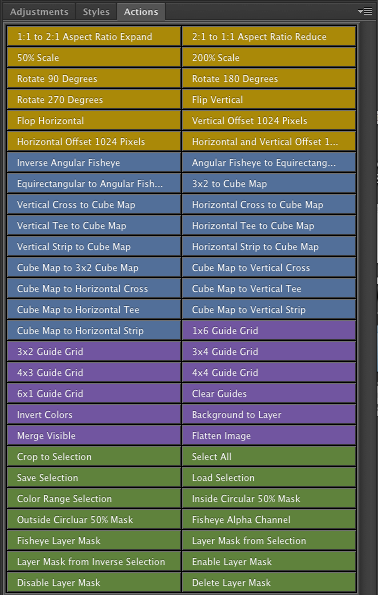
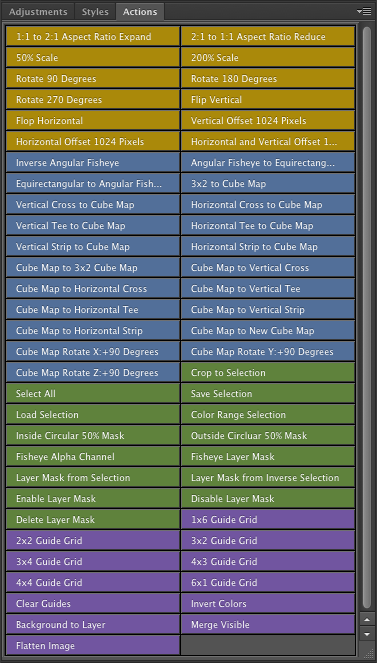
Version 0.4 Update

diff --git a/readme.md b/readme.md
@@ -1,5 +1,6 @@
 #Domemaster Photoshop Actions Pack
-Version 0.3 - Nov 28, 2012 - Build 5
+**Version 0.4** - Released Nov 30, 2012
+
 by Andrew Hazelden
 
 
@@ -49,7 +50,10 @@ The actions provide tools for converting images from several common panoramic fo
 	> Cube Map to Horizontal Tee
 	> Cube Map to Vertical Strip
 	> Cube Map to Horizontal Strip
-
+	> Cube Map to New Cube Map
+	> Cube Map Rotate X:+90 Degrees
+	> Cube Map Rotate Y:+90 Degrees
+	> Cube Map Rotate Z:+90 Degrees
 	
 ##Masking and Selection:
 	> Crop to Selection
@@ -68,8 +72,8 @@ The actions provide tools for converting images from several common panoramic fo
 	> Delete Layer Mask
 	 
 ##General Utilities:
-
 	> 1x6 Guide Grid
+	> 2x2 Guide Grid
 	> 3x2 Guide Grid
 	> 3x4 Guide Grid
 	> 4x3 Guide Grid
@@ -255,6 +259,9 @@ The converted cubic map faces are named:
 </table>
 
 
+![3x2 Cube Map to Cube Map Example 1](https://raw.github.com/AndrewHazelden/Domemaster-Photoshop-Actions-Pack/master/Screenshots/Actions-Previews/3x2-cubemap-action.jpg)
+
+
 ###Vertical Cross to Cube Map
 This converts a vertical cross format panorama into the cubic map panorama format.
 
@@ -281,6 +288,10 @@ The converted cubic map faces are named:
 	</tr>
 </table>
 
+
+![Vertical Cross to Cube Map Example](https://raw.github.com/AndrewHazelden/Domemaster-Photoshop-Actions-Pack/master/Screenshots/Actions-Previews/vertical-cross-cubemap-action.jpg)
+
+
 ###Horizontal Cross to Cube Map
 This converts a horizontal cross format panorama into the cubic map panorama format.
 
@@ -306,6 +317,8 @@ The converted cubic map faces are named:
 		<td>bottom</td>
 	</tr>
 </table>
+
+![Horizontal Cross to Cube Map Example](https://raw.github.com/AndrewHazelden/Domemaster-Photoshop-Actions-Pack/master/Screenshots/Actions-Previews/horizontal-cross-cubemap-action.jpg)
 
 ###Vertical Tee to Cube Map
 This converts a vertical tee format panorama into the cubic map panorama format.
@@ -334,6 +347,7 @@ The converted cubic map faces are named:
 	</tr>
 </table>
 
+![Vertical Tee to Cube Map Example](https://raw.github.com/AndrewHazelden/Domemaster-Photoshop-Actions-Pack/master/Screenshots/Actions-Previews/vertical-tee-cubemap-action.jpg)
 
 ###Horizontal Tee to Cube Map
 This converts a horizontal tee format panorama into the cubic map panorama format.
@@ -362,7 +376,7 @@ The converted cubic map faces are named:
 	</tr>
 </table>
 
-
+![Horizontal Tee to Cube Map Example](https://raw.github.com/AndrewHazelden/Domemaster-Photoshop-Actions-Pack/master/Screenshots/Actions-Previews/horizontal-tee-cubemap-action.jpg)
 
 ###Vertical Strip to Cube Map
 This converts a vertical strip format panorama into the cubic map panorama format.
@@ -391,6 +405,8 @@ The converted cubic map faces are named:
 	</tr>
 </table>
 
+![Vertical Strip to Cube Map Example](https://raw.github.com/AndrewHazelden/Domemaster-Photoshop-Actions-Pack/master/Screenshots/Actions-Previews/vertical-strip-cubemap-action.jpg)
+
 ###Horizontal Strip to Cube Map
 This converts a horizontal strip format panorama into the cubic map panorama format.
 
@@ -418,6 +434,15 @@ The converted cubic map faces are named:
 	</tr>
 </table>
 
+![Horizontal Strip to Cube Map Example](https://raw.github.com/AndrewHazelden/Domemaster-Photoshop-Actions-Pack/master/Screenshots/Actions-Previews/horizontal-strip-cubemap-action.jpg)
+
+
+###Cube Map to 3x2 Cube Map
+
+This converts a cube map format image into the 3x2 panorama format.
+
+![Cube Map to 3x2 Cube Map Example](https://raw.github.com/AndrewHazelden/Domemaster-Photoshop-Actions-Pack/master/Screenshots/Actions-Previews/cubemap-3x2-cube-action.jpg)
+
 
 ###Cube Map to Vertical Cross
 This converts a cube map format image into the vertical cross panorama format.
@@ -426,18 +451,20 @@ The converted vertical cross faces are located in the format:
 
 <table>
 	<tr>
-		<td>blank</td> <td>top</td> <td>blank</td> <td>blank</td>
+		<td>blank</td> <td>top</td> <td>blank</td>
 	</tr>
 	<tr>
-		<td>left</td> <td>front</td> <td>right</td> <td>blank</td>
+		<td>left</td> <td>front</td> <td>right</td>
 	</tr>
 	<tr>
-		<td>blank</td> <td>bottom</td> <td>blank</td> <td>blank</td>
+		<td>blank</td> <td>bottom</td> <td>blank</td>
 	</tr>
 	<tr>
-		<td>blank</td> <td>back (rotated 180&deg;)</td> <td>blank</td> <td>blank</td>
+		<td>blank</td> <td>back (rotated 180&deg;)</td> <td>blank</td>
 	</tr>
 </table>
+
+![Cube Map to Vertical Cross Example](https://raw.github.com/AndrewHazelden/Domemaster-Photoshop-Actions-Pack/master/Screenshots/Actions-Previews/cubemap-vertical-cross-action.jpg)
 
 
 ###Cube Map to Horizontal Cross
@@ -457,6 +484,7 @@ The converted horizontal cross faces are located in the format:
 	</tr>
 </table>
 
+![Cube Map to Horizontal Cross Example](https://raw.github.com/AndrewHazelden/Domemaster-Photoshop-Actions-Pack/master/Screenshots/Actions-Previews/cubemap-horizontal-cross-action.jpg)
 
 ###Cube Map to Vertical Tee
 This converts a cube map format image into the vertical tee panorama format.
@@ -478,6 +506,7 @@ The converted vertical tee faces are located in the format:
 	</tr>
 </table>
 
+![Cube Map to Vertical Tee Example](https://raw.github.com/AndrewHazelden/Domemaster-Photoshop-Actions-Pack/master/Screenshots/Actions-Previews/cubemap-vertical-tee-action.jpg)
 
 ###Cube Map to Horizontal Tee
 This converts a cube map format image into the horizontal tee panorama format.
@@ -496,7 +525,7 @@ The converted horizontal tee faces are located in the format:
 	</tr>
 </table>
 
-
+![Cube Map to Horizontal Tee Example](https://raw.github.com/AndrewHazelden/Domemaster-Photoshop-Actions-Pack/master/Screenshots/Actions-Previews/cubemap-horizontal-tee-action.jpg)
 
 ###Cube Map to Vertical Strip
 This converts a cube map format image into a single column panorama format.
@@ -524,6 +553,7 @@ The vertical strip faces are located in the format:
 	</tr>
 </table>
 
+![Cube Map to Vertical Strip Example](https://raw.github.com/AndrewHazelden/Domemaster-Photoshop-Actions-Pack/master/Screenshots/Actions-Previews/cubemap-vertical-strip-action.jpg)
 
 ###Cube Map to Horizontal Strip
 This converts a cube map format image into a single row panorama format.
@@ -536,8 +566,44 @@ The horizontal strip faces are located in the format:
 	</tr>
 </table>
 
+![Cube Map to Horizontal Strip Example](https://raw.github.com/AndrewHazelden/Domemaster-Photoshop-Actions-Pack/master/Screenshots/Actions-Previews/cubemap-horizontal-strip-action.jpg)
 
 
+###Cube Map to New Cube Map
+
+This action will copy the cube map "front", "right", "back", "left", "top", and "bottom" layers from your current Photoshop document into a new Photoshop document.
+
+
+###Cube Map Rotate X:+90 Degrees
+
+This action will rotate the cube map panorama by 90 degrees on the X-axis. This has the effect of turning the front "view" upwards towards the sky.
+
+Tip: If you want to rotate a cross style, tee style, 3x2 cubic map, or strip style pano you need to convert them to the layered "cube map" format first using the actions in the Conversions Actions tab group.
+
+![Cube Map Rotate X:+90 Degrees Example 1](https://raw.github.com/AndrewHazelden/Domemaster-Photoshop-Actions-Pack/master/Screenshots/Actions-Previews/cubemap-rotate-x90-action.jpg)
+
+![Cube Map Rotate X:+90 Degrees Example 2](https://raw.github.com/AndrewHazelden/Domemaster-Photoshop-Actions-Pack/master/Screenshots/Actions-Previews/cubemap-rotate-x90-layers.jpg)
+
+
+###Cube Map Rotate Y:+90 Degrees
+
+This action will rotate the cube map panorama by 90 degrees on the Y-axis. The has the effect of turning the front "view" towards the left.
+
+Tip: If you want to rotate a cross style, tee style, 3x2 cubic map, or strip style pano you need to convert them to the layered "cube map" format first using the actions in the Conversions Actions tab group.
+
+![Cube Map Rotate Y:+90 Degrees Example 1](https://raw.github.com/AndrewHazelden/Domemaster-Photoshop-Actions-Pack/master/Screenshots/Actions-Previews/cubemap-rotate-y90-action.jpg)
+
+![Cube Map Rotate Y:+90 Degrees Example 2](https://raw.github.com/AndrewHazelden/Domemaster-Photoshop-Actions-Pack/master/Screenshots/Actions-Previews/cubemap-rotate-y90-layers.jpg)
+
+###Cube Map Rotate Z:+90 Degrees
+
+This action will rotate the cube map panorama by 90 degrees on the Z-axis. This has the effect of rotating the front "view" 90 degrees clockwise to the right. 
+
+Tip: If you want to rotate a cross style, tee style, 3x2 cubic map, or strip style pano you need to convert them to the layered "cube map" format first using the actions in the Conversions Actions tab group.
+
+![Cube Map Rotate Z:+90 Degrees Example 1](https://raw.github.com/AndrewHazelden/Domemaster-Photoshop-Actions-Pack/master/Screenshots/Actions-Previews/cubemap-rotate-z90-action.jpg)
+
+![Cube Map Rotate Z:+90 Degrees Example 1](https://raw.github.com/AndrewHazelden/Domemaster-Photoshop-Actions-Pack/master/Screenshots/Actions-Previews/cubemap-rotate-z90-layers.jpg)
 
 ##Masking and Selection
 
@@ -704,6 +770,6 @@ When an image is flattened, all of the transparent background areas in the image
 
 Actions Created by Andrew Hazelden. (c) copyright 2012.
 
-Email: andrew@andrewhazelden.com
+Email: [andrew@andrewhazelden.com](mailto:andrew@andrewhazelden.com)
 
-Blog: http://www.andrewhazelden.com
+Blog: [http://www.andrewhazelden.com](http://www.andrewhazelden.com)
